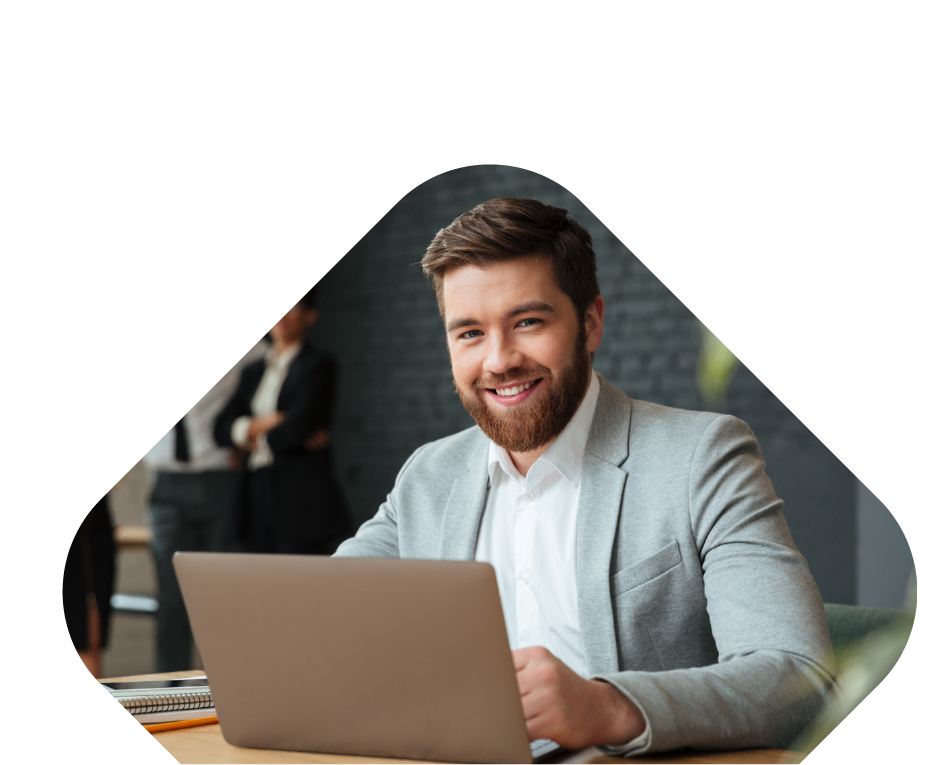
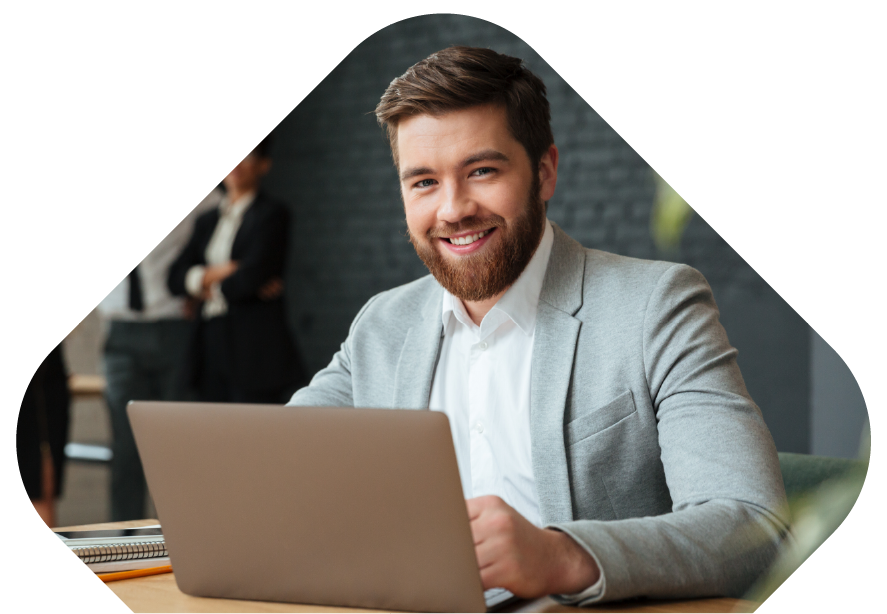
first responsive

diff --git a/css/style.css b/css/style.css
@@ -1,5 +1,5 @@
 *{
-    margin: 0;
+    margin: 0 auto;
     padding: 0;
     box-sizing:border-box ;
 }
@@ -7,6 +7,15 @@
 html{
     scroll-behavior: smooth;
     
+}
+
+/********** Body **********/
+
+body{
+    width: 100%;
+    background-repeat: no-repeat, no-repeat;
+    font-family: 'Lato', sans-serif;
+    margin: 0px;
 }
 
 /********** HEADER **********/
@@ -18,7 +27,7 @@ header{
 }
 
 .logo{
-    max-width: 50%;
+    width: 300px;
     margin-left: 50px;
 }
 
@@ -37,13 +46,18 @@ ul li, a{
     color: rgb(38, 39, 44);
 }
 
-/********** Body **********/
 
-body{
-    background-repeat: no-repeat, no-repeat;
-    font-family: 'Lato', sans-serif;
-    margin: 0px;
+
+.list_nav a{
+    text-decoration: none;
+    color:#282828 ;
 }
+
+.list_nav a:hover{
+    text-decoration: none;
+    color:#002bff;
+}
+
 
 /********** Section Intro **********/
 
@@ -58,25 +72,20 @@ body{
 
 h1.title_section_intro{
     font-size: 60px;
-    margin-bottom: 20px;
     color: #002bff;
-    margin-left: 50px;
-    
+    margin: 20px 50px;
 }
 
 p.text_section_intro{
     font-size: 23px;
-    margin-bottom: 30px;
     color: #282828;
-    margin-left: 50px;
-    margin-bottom: 0 15px;
+    margin: 30px 50px;
     display: inline-block;
 }
 
 .imagen_principal{
     max-width: 600px;
     margin: 0% 8%;
-    border:2px solid #fff;
     display: block;
 }
 
@@ -88,16 +97,16 @@ p.text_section_intro{
     align-items: center;
     background-color: #efefef;
     margin-top: 30px;
-    padding: 0px 160px;
+    padding: 30px 160px 0;
 }
 
 .info_section_two{
-    margin-bottom: 50px 50px;
+    margin-bottom: 50px;
     padding-left: 160px;
 }
 
 .chico_rombo{
-    max-width: 500px;
+    width: 500px;
 }
 
 h2.tittle_section_two{
@@ -120,15 +129,12 @@ p.text_section_two{
     display: flex;
     justify-content: center;
     padding: 50px 180px ;
-    
 }
-
 
 .main_container{
     align-items: center;
     padding: 10px 100px 0 ;
     margin-bottom: 30px;
-    
 }
 
 h2.title_main_container{
@@ -294,4 +300,174 @@ form input[type="submit"]:hover{
     background-color: #efefef;
     color: #002bff;
     font-size: 20px;
+}
+
+
+
+/********** RESPONSIVE **********/
+
+
+@media (max-width: 320px) {
+
+    /********** HEADER **********/
+
+header{
+    width: 320vw;
+    align-items: center;
+    margin-bottom: 10px;
+    flex-direction: column;
+}
+
+.logo{
+    margin: 0 auto;
+}
+
+nav{
+    width: 320vw;
+}
+
+nav ul{
+    margin: 0;
+    padding-left: 0;
+    justify-content: space-around;
+}
+
+ul li, a{
+    margin: 30px 0;
+    padding-left: 0;
+}
+
+
+.list_nav a{
+    font-size: 20px ;
+}
+
+
+/********** Section Intro **********/
+
+
+#section_intro{
+    width: 320vw;
+    flex-direction: column;
+    justify-content: space-between;
+
+}
+
+h1.title_section_intro{
+    font-size: 50px;
+    text-align: center;
+
+}
+
+p.text_section_intro{
+    font-size: 21px;
+    text-align: center;
+
+}
+
+.imagen_principal{
+    margin: 0;
+
+}
+
+/********** Second section **********/
+
+.section_two{
+    width: 320vw;
+    flex-direction: column-reverse;
+    margin-top: 30px;
+    padding: 50px 150px 0 150px;
+    text-align: center;
+}
+
+.info_section_two{
+    margin-bottom: 20px;
+    padding-left: 0;
+}
+
+
+/********** Third section **********/
+
+#container{
+    width: 320vw;
+    padding: 50px 50px ;
+}
+
+.first_container_text_left{
+    flex-direction: column;
+    text-align: center;
+    
+}
+
+.first_container_text_left:nth-child(2n){
+    flex-direction: column-reverse;
+}
+
+.first_text_container span{
+    margin-right: 0;
+}
+
+.first_text_container{
+    margin-left: 0;
+    padding-top: 20px;
+}
+
+.second_text_container{
+    margin-left: 0;
+    padding-top: 20px;
+}
+
+
+/********** Fourth section **********/
+
+
+.last_section{
+    padding: 0 80px 50px;
+    width: 320vw;
+    
+}
+
+
+
+/********** Form **********/
+
+#contact_us{
+    width: 320vw;
+}
+
+h2.title{
+    font-size: 35px;
+}
+
+.form{
+    flex-direction: column;
+    align-items: center;
+}
+
+
+form input[type="text"],
+form input[type="email"],
+form input[type="number"]{
+	width:90%;
+	padding:30px 30px;
+}
+
+
+form input[type="submit"]{
+	padding:20px 40px;
+    font-size: 21px;
+} 
+
+.input::placeholder{
+    font-size: 21px;
+}
+
+.footer{
+    width: 320vw;
+    padding: 20px;
+    font-size: 21px;
+    background-color: #282828;
+    color: #ffffff;
+}
+
 }

diff --git a/index.html b/index.html
@@ -18,9 +18,9 @@
         <a><img class="logo" src="./img/logo-color.gif" alt="logo"></a>
         <nav>
             <ul>
-                <li><a href="">About Us</a></li>
-                <li><a href="">Highlights</a></li>
-                <li><a href="">More info</a></li>
+                <li class="list_nav"><a href="">About Us</a></li>
+                <li class="list_nav"><a href="">Highlights</a></li>
+                <li class="list_nav"><a href="#contact_us">More info</a></li>
             </ul>
         </nav>
     </header>
